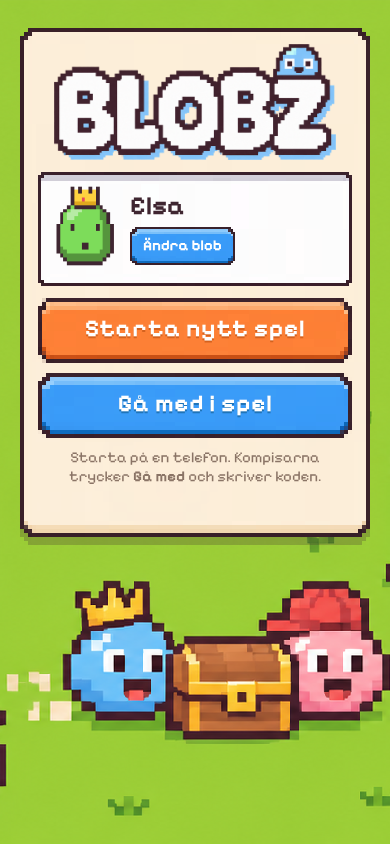
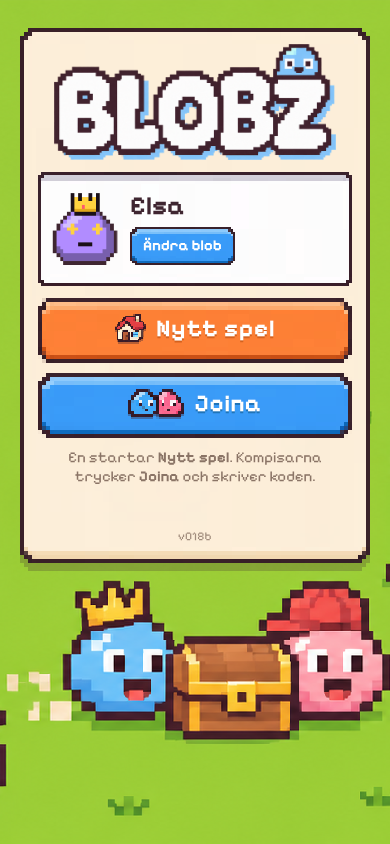
fix(blobz): v018b buttons read Nytt spel / Joina
Claude-Session: https://claude.ai/code/session_019PjhQycgBwz4yCtCSZuQS4

diff --git a/blobz/index.html b/blobz/index.html
@@ -28,9 +28,9 @@
           <span class="me-text"><b id="me-name">Blob</b><span class="edit">Ändra blob</span></span>
         </button>
         <div class="actions">
-          <button id="btn-host" class="big"><i data-icon="house"></i>Starta nytt spel</button>
-          <button id="btn-show-join" class="big alt"><i data-icon="team"></i>Gå med i spel</button>
-          <p class="help">Starta på en telefon. Kompisarna trycker <b>Gå med</b> och skriver koden.</p>
+          <button id="btn-host" class="big"><i data-icon="house"></i>Nytt spel</button>
+          <button id="btn-show-join" class="big alt"><i data-icon="team"></i>Joina</button>
+          <p class="help">En startar <b>Nytt spel</b>. Kompisarna trycker <b>Joina</b> och skriver koden.</p>
           <p id="menu-msg" class="msg"></p>
         </div>
         <p id="version" class="version"></p>
@@ -60,10 +60,10 @@
 
       <!-- Join -->
       <div id="join" class="card panel joinp hidden">
-        <h2>Gå med i spel</h2>
+        <h2>Joina spel</h2>
         <p class="help">Skriv koden som syns på värdens skärm</p>
         <input id="code" class="codebox" maxlength="4" placeholder="ABCD" autocomplete="off" autocapitalize="characters" spellcheck="false" inputmode="text" />
-        <button id="btn-join" class="big alt">Gå med</button>
+        <button id="btn-join" class="big alt">Joina</button>
         <p id="join-msg" class="msg"></p>
         <button id="btn-join-back" class="link"><i data-icon="back"></i>Tillbaka</button>
       </div>
